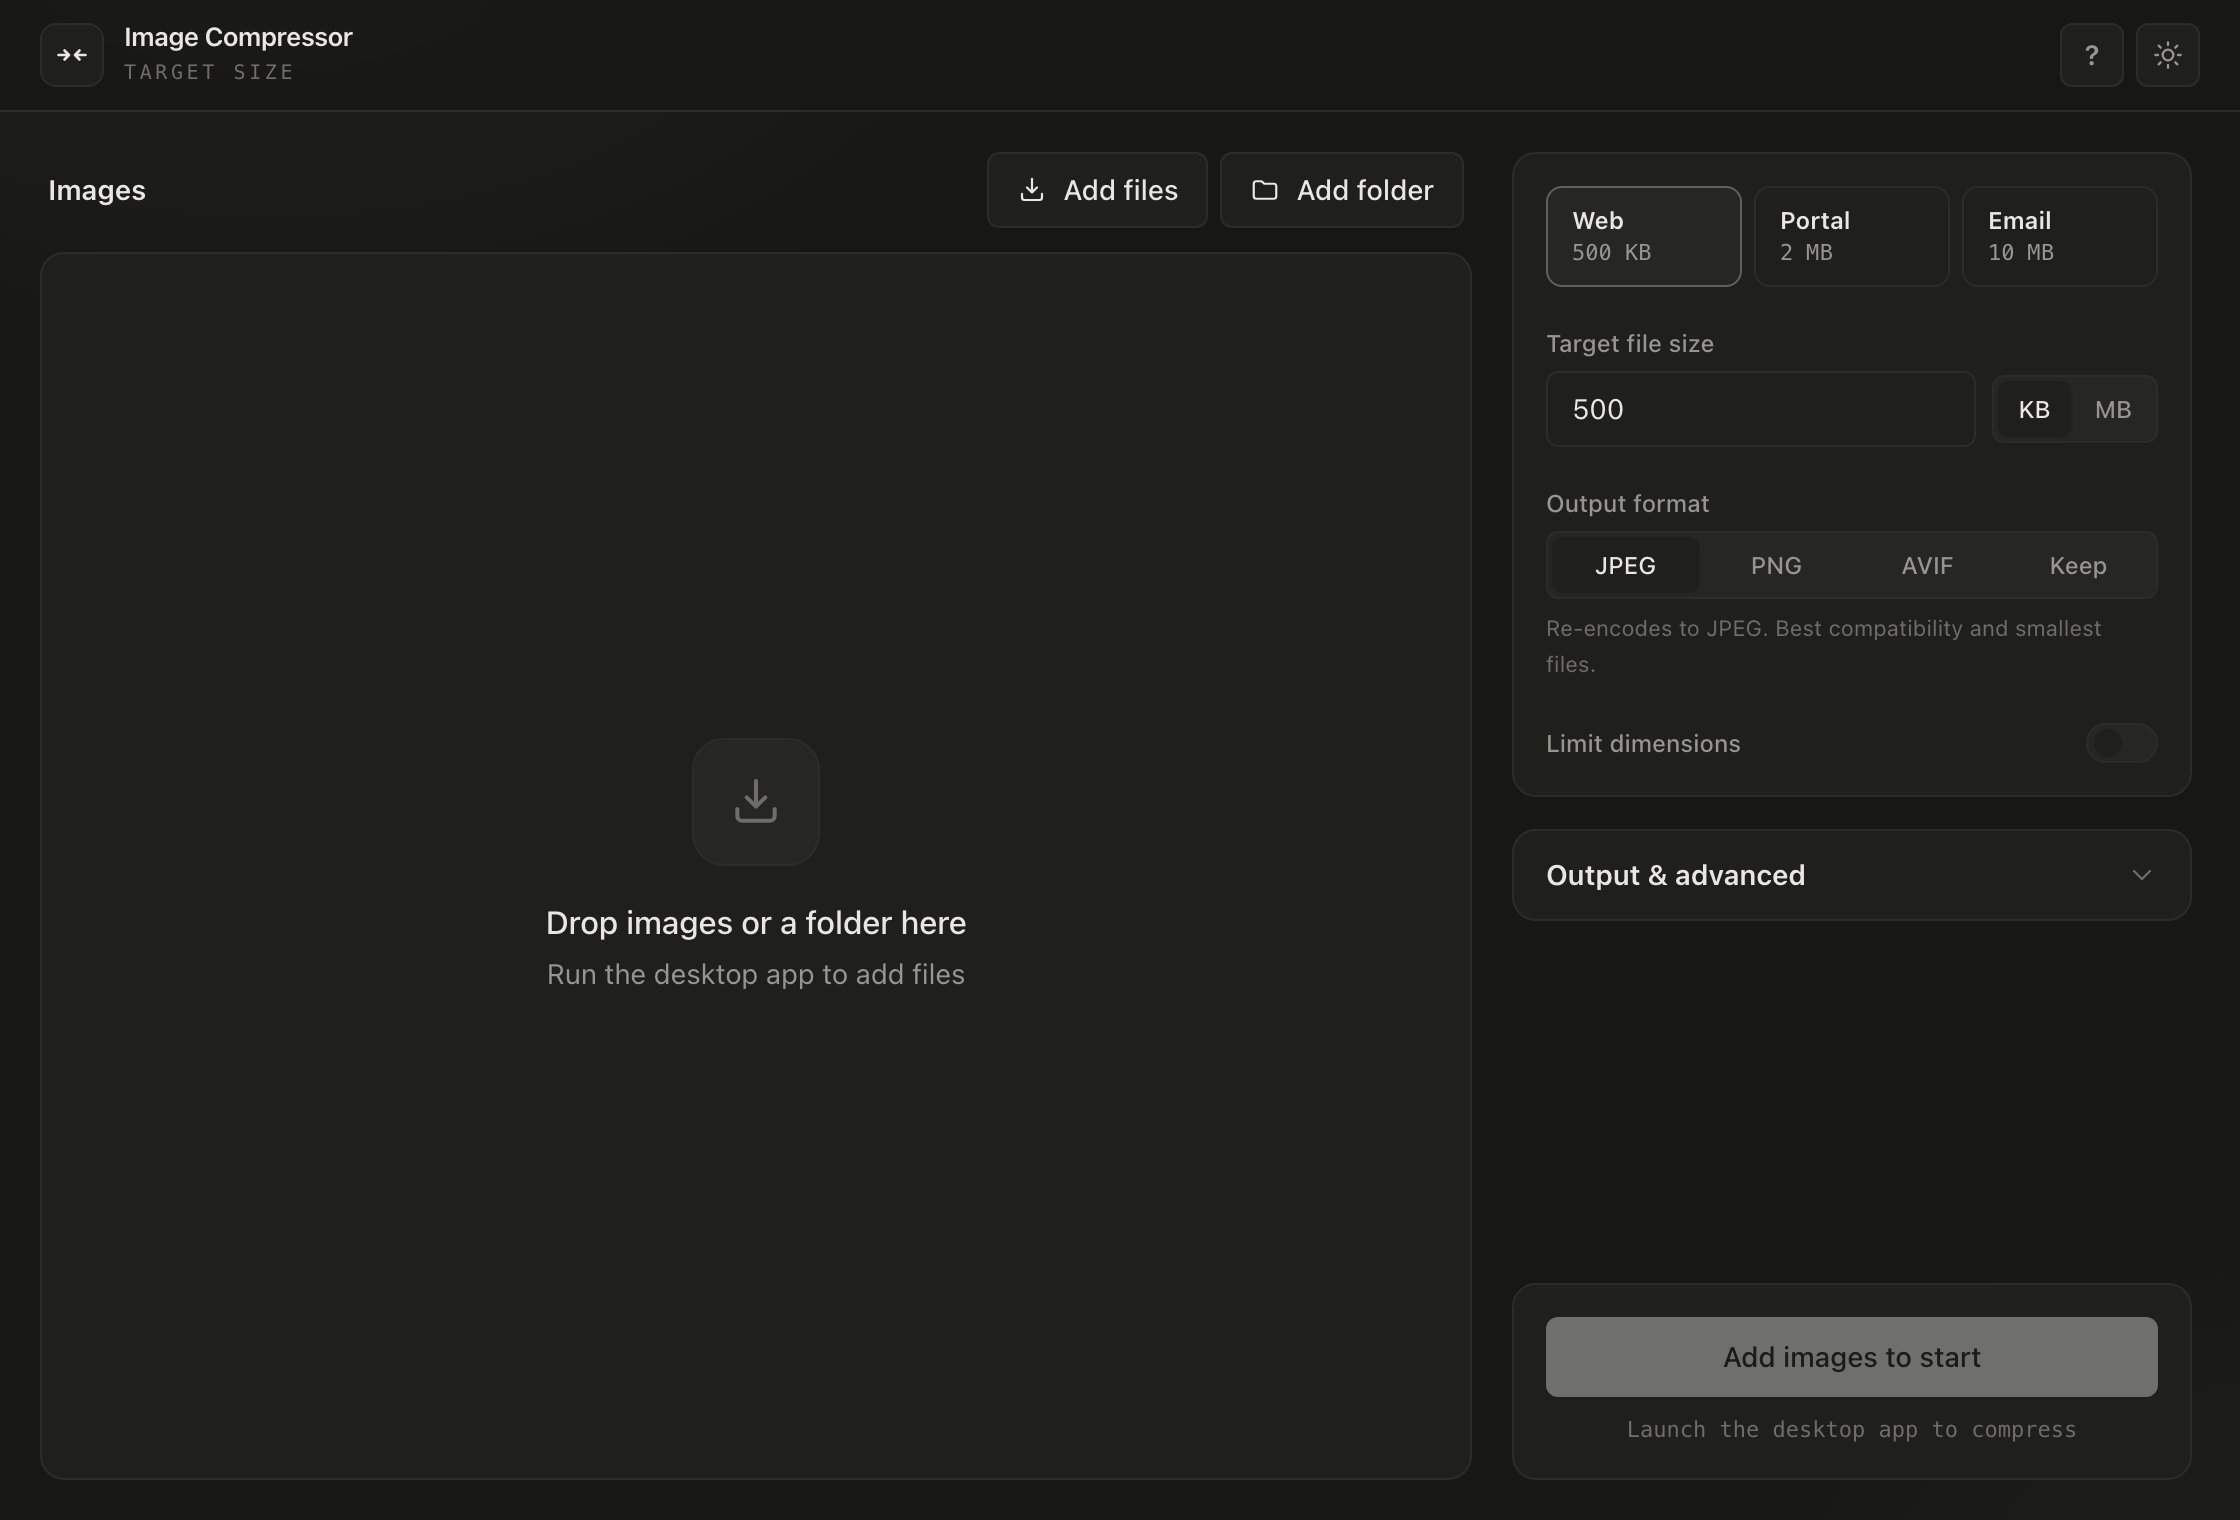
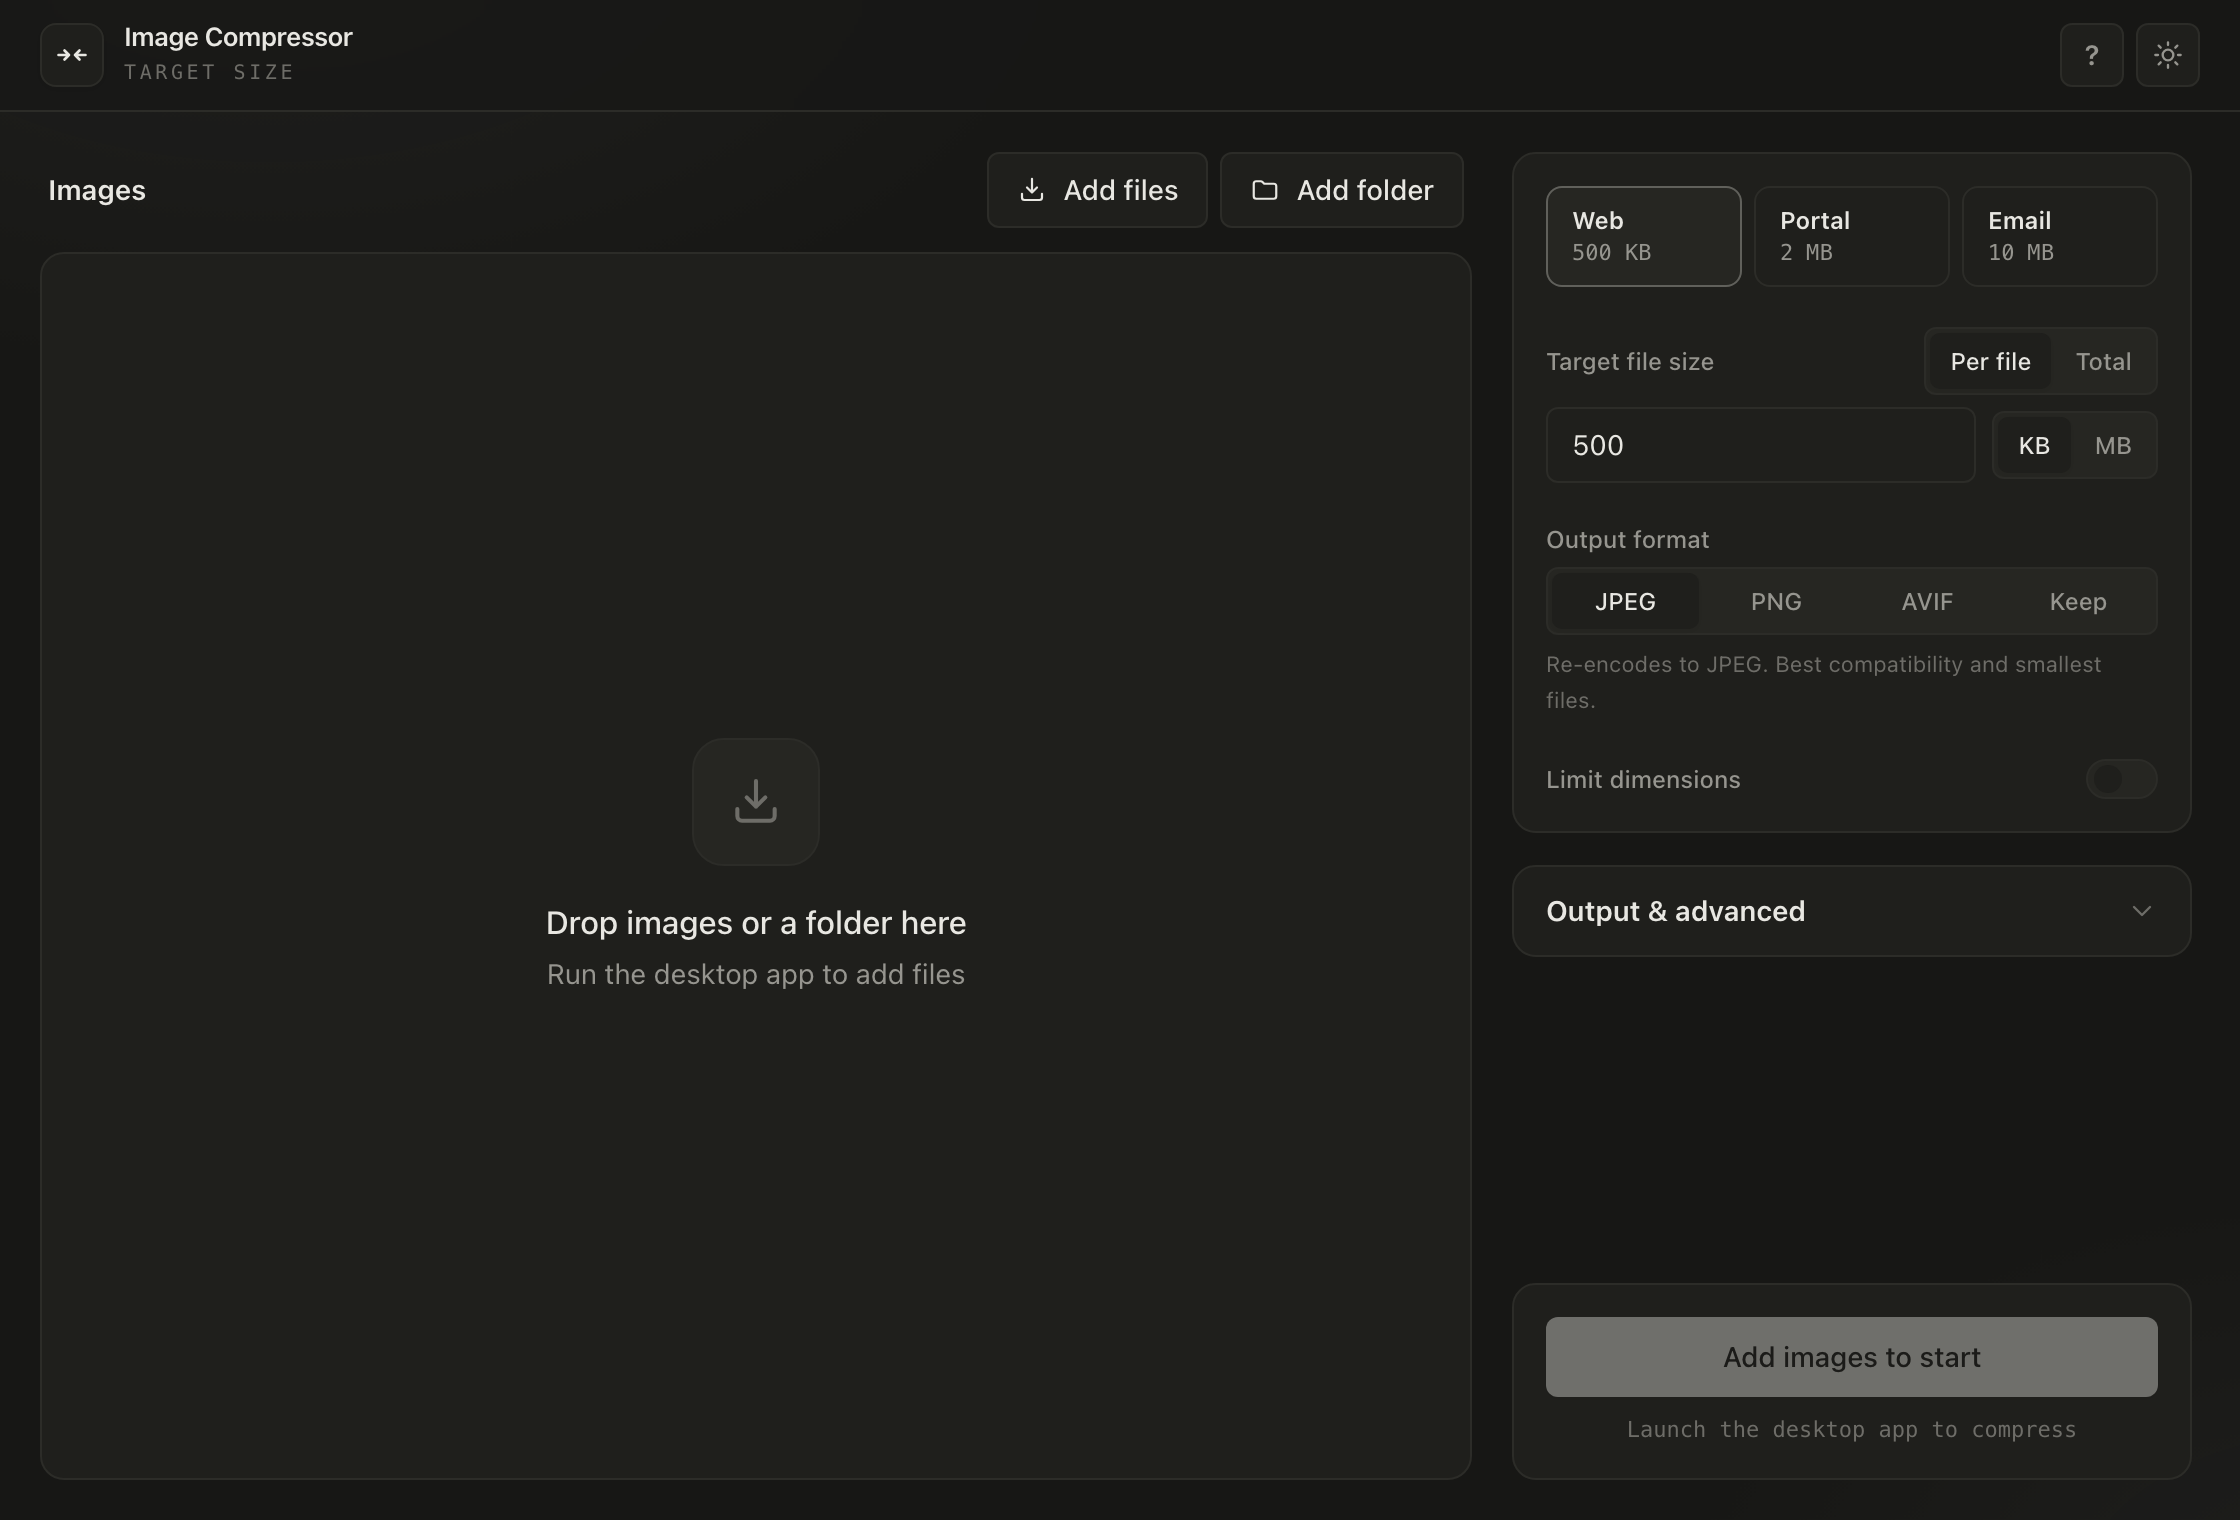
docs: bring README, screenshot, and in-app Help up to date with current features
README: selectable/cached live preview + thumbnails, oxipng in the stack, current tag example. Screenshot refreshed (now shows the Per file / Total toggle). In-app Help: preview is now click-any-image (not just the first), and the size step mentions Per file / Total budget.

Claude-Session: https://claude.ai/code/session_011JDxf7bCnSF2DX8EBcFEpj

diff --git a/src/components/HelpDialog.tsx b/src/components/HelpDialog.tsx
@@ -14,7 +14,7 @@ const STEPS: ReadonlyArray<Step> = [
   },
   {
     title: 'Set the target size',
-    body: 'Type a cap in KB or MB, or tap a preset — Web (500 KB), Portal (2 MB), Email (10 MB). Optionally cap the longest edge under Limit dimensions.',
+    body: 'Type a cap in KB or MB, or tap a preset — Web (500 KB), Portal (2 MB), Email (10 MB). Switch Per file / Total to cap each image individually or fit the whole set under one combined budget, and optionally cap the longest edge under Limit dimensions.',
   },
   {
     title: 'Choose a format',
@@ -22,7 +22,7 @@ const STEPS: ReadonlyArray<Step> = [
   },
   {
     title: 'Compress',
-    body: 'Each image is written next to the original (or your chosen output folder) with a -compressed suffix. The Preview panel shows the result for the first image before you run the batch.',
+    body: 'Each image is written next to the original (or your chosen output folder) with a -compressed suffix. Click any image in the list to preview its result before you run the batch.',
   },
 ]
 

diff --git a/README.md b/README.md
@@ -12,7 +12,8 @@ A standalone Windows + macOS desktop app that compresses and resizes images to h
 - **Target file size** with a KB / MB toggle, plus an optional max-dimension (longest edge) cap
 - **Per-file cap overrides**, or a **total-folder budget** mode that fits a whole set under one combined cap (split across images by size)
 - Input: JPEG, PNG, WebP, TIFF. Output: JPEG (default), PNG (lossless, oxipng-optimized), or AVIF (best ratio, slower), plus "keep original"
-- **Live before/after preview** with a size readout for the first image, recomputed as you change settings
+- **Live before/after preview** — click any image to preview it; the size/quality readout recomputes instantly as you change settings (the decoded source is cached, so tweaks are fast)
+- **Thumbnails** in the file list, with a selectable preview target
 - Transparency handling: PNG/AVIF keep alpha; JPEG flattens onto a configurable background color
 - Parallel batch processing (Rust `rayon`, capped to the core count) with overall + per-file progress
 - **Cancel** mid-run with accurate partial results
@@ -31,7 +32,7 @@ When a cap is reachable the output is **always ≤ the cap**, and the search ret
 - **Tauri 2** — Rust core; WebView2 on Windows, WKWebView on macOS
 - **React 18 + TypeScript (strict) + Vite** frontend, **Tailwind CSS**, **Zustand** state
 - Tauri plugins: `dialog`, `fs`, `store`
-- Engine crates: `image` (decode/encode), `ravif` (AVIF), `fast_image_resize` (Lanczos3 resize), `rayon`, `thiserror`, `serde`
+- Engine crates: `image` (decode/encode), `ravif` (AVIF), `oxipng` (lossless PNG optimization), `fast_image_resize` (Lanczos3 resize), `rayon`, `thiserror`, `serde`
 
 The compression engine is a **separate workspace crate** (`src-tauri/crates/engine`) with **no Tauri dependency**, so it is platform-neutral and unit-testable on its own.
 
@@ -84,7 +85,7 @@ You cannot build both installers on one machine — each OS's bundle must be bui
 - Windows → `.msi` (WiX) and `.exe` (NSIS)
 - macOS → universal `.dmg` / `.app` (Apple Silicon + Intel)
 
-Push a tag like `v0.1.0` to trigger it. Optional code signing — Windows Authenticode, macOS Developer ID + notarization — is left to the maintainer.
+Push a tag like `v0.3.3` to trigger it; the workflow creates a draft GitHub Release and attaches the installers. Optional code signing — Windows Authenticode, macOS Developer ID + notarization — is left to the maintainer.
 
 ## Encoder backend (a deliberate decision)
 